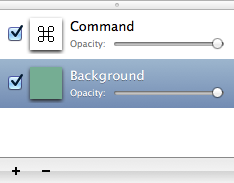
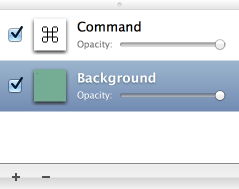
Retina-optimized Discover Pixen tutorial (4)

diff --git a/Resources/PixenIntro/layers.html b/Resources/PixenIntro/layers.html
@@ -7,7 +7,7 @@
 
 <body>
 	<h2>Layers</h2>
-	<img class="left shadow" src="Layers.png" alt="Layers in Pixen" />
+	<img id="layers" class="left shadow" src="Layers.png" width="239" height="189" alt="Layers in Pixen" />
 	<p>Pixen lets you divide your artwork into multiple parts with layers.</p>
 	<p>Layers allow for tremendous flexibility, even in pixel art. For instance, you can draw a character, then make a new layer for his clothing and draw it all in the new layer. Any changes you make afterward will only affect the new layer, so if you accidentally erase a few pixels, you won't be erasing colors in the original layer.</p>
 	<p>A list of layers is displayed in the left pane of each document window.</p>

diff --git a/Resources/PixenIntro/style.css b/Resources/PixenIntro/style.css
@@ -69,6 +69,9 @@ a.button:hover {
 	img#icon {
 		content: url("Pixen128_2x.png");
 	}
+	img#layers {
+		content: url("Layers_2x.png");
+	}
 	img#crosshair {
 		content: url("Crosshair_2x.png");
 	}
